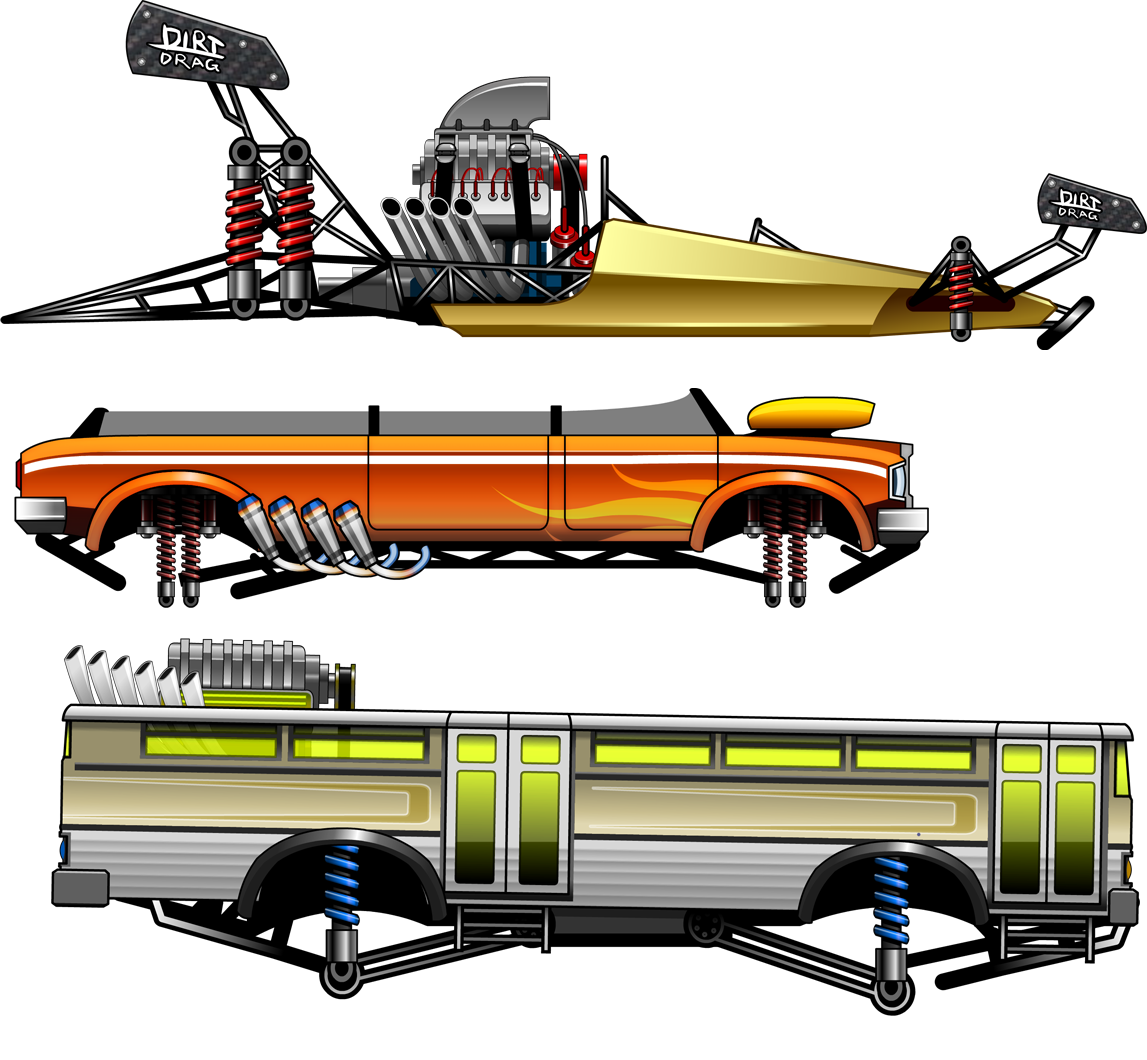
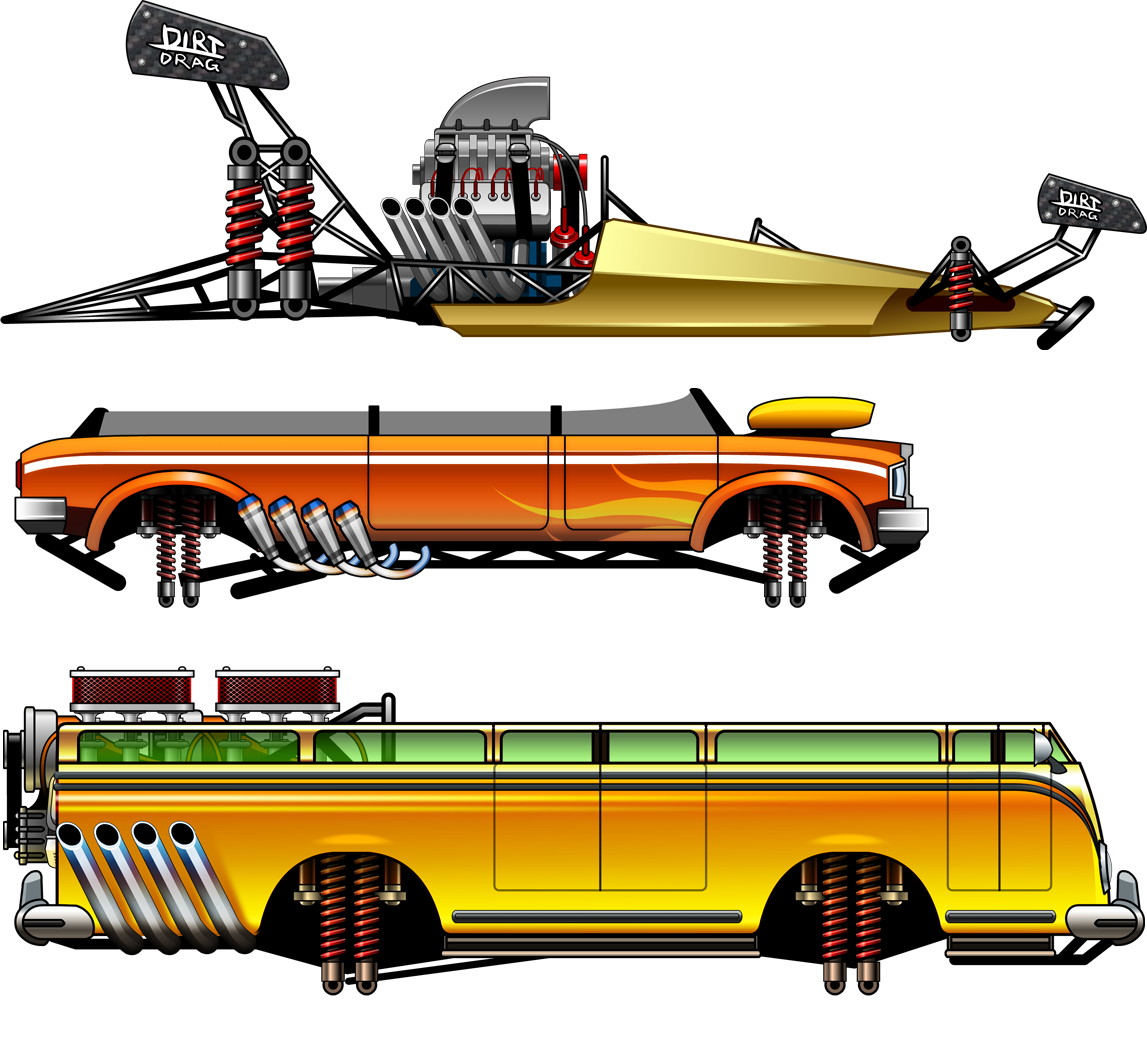
+ автобус

Changed region(s): [[0.0, 0.5915, 1.0, 0.9651]]

diff --git a/Assets/Scripts/Model.cs b/Assets/Scripts/Model.cs
@@ -5,7 +5,7 @@ public class Model : MonoBehaviour
 {
 
 		static public int curCarIndex = 0;
-	static public string[] cars = new string[14]{"Classic","CrossBike","Quad","Tractor","SandBuggy","Crawler","PikesPeak","DieselRunner","TruckTrailer","Monster","SportBolid","Limo","DirtDragster","TITAN"};
+	static public string[] cars = new string[15]{"Classic","CrossBike","Quad","Tractor","SandBuggy","Crawler","PikesPeak","DieselRunner","TruckTrailer","Monster","SportBolid","Limo","DirtDragster","TITAN","SchoolBus"};
 
 		// Use this for initialization00
 		void Start ()
